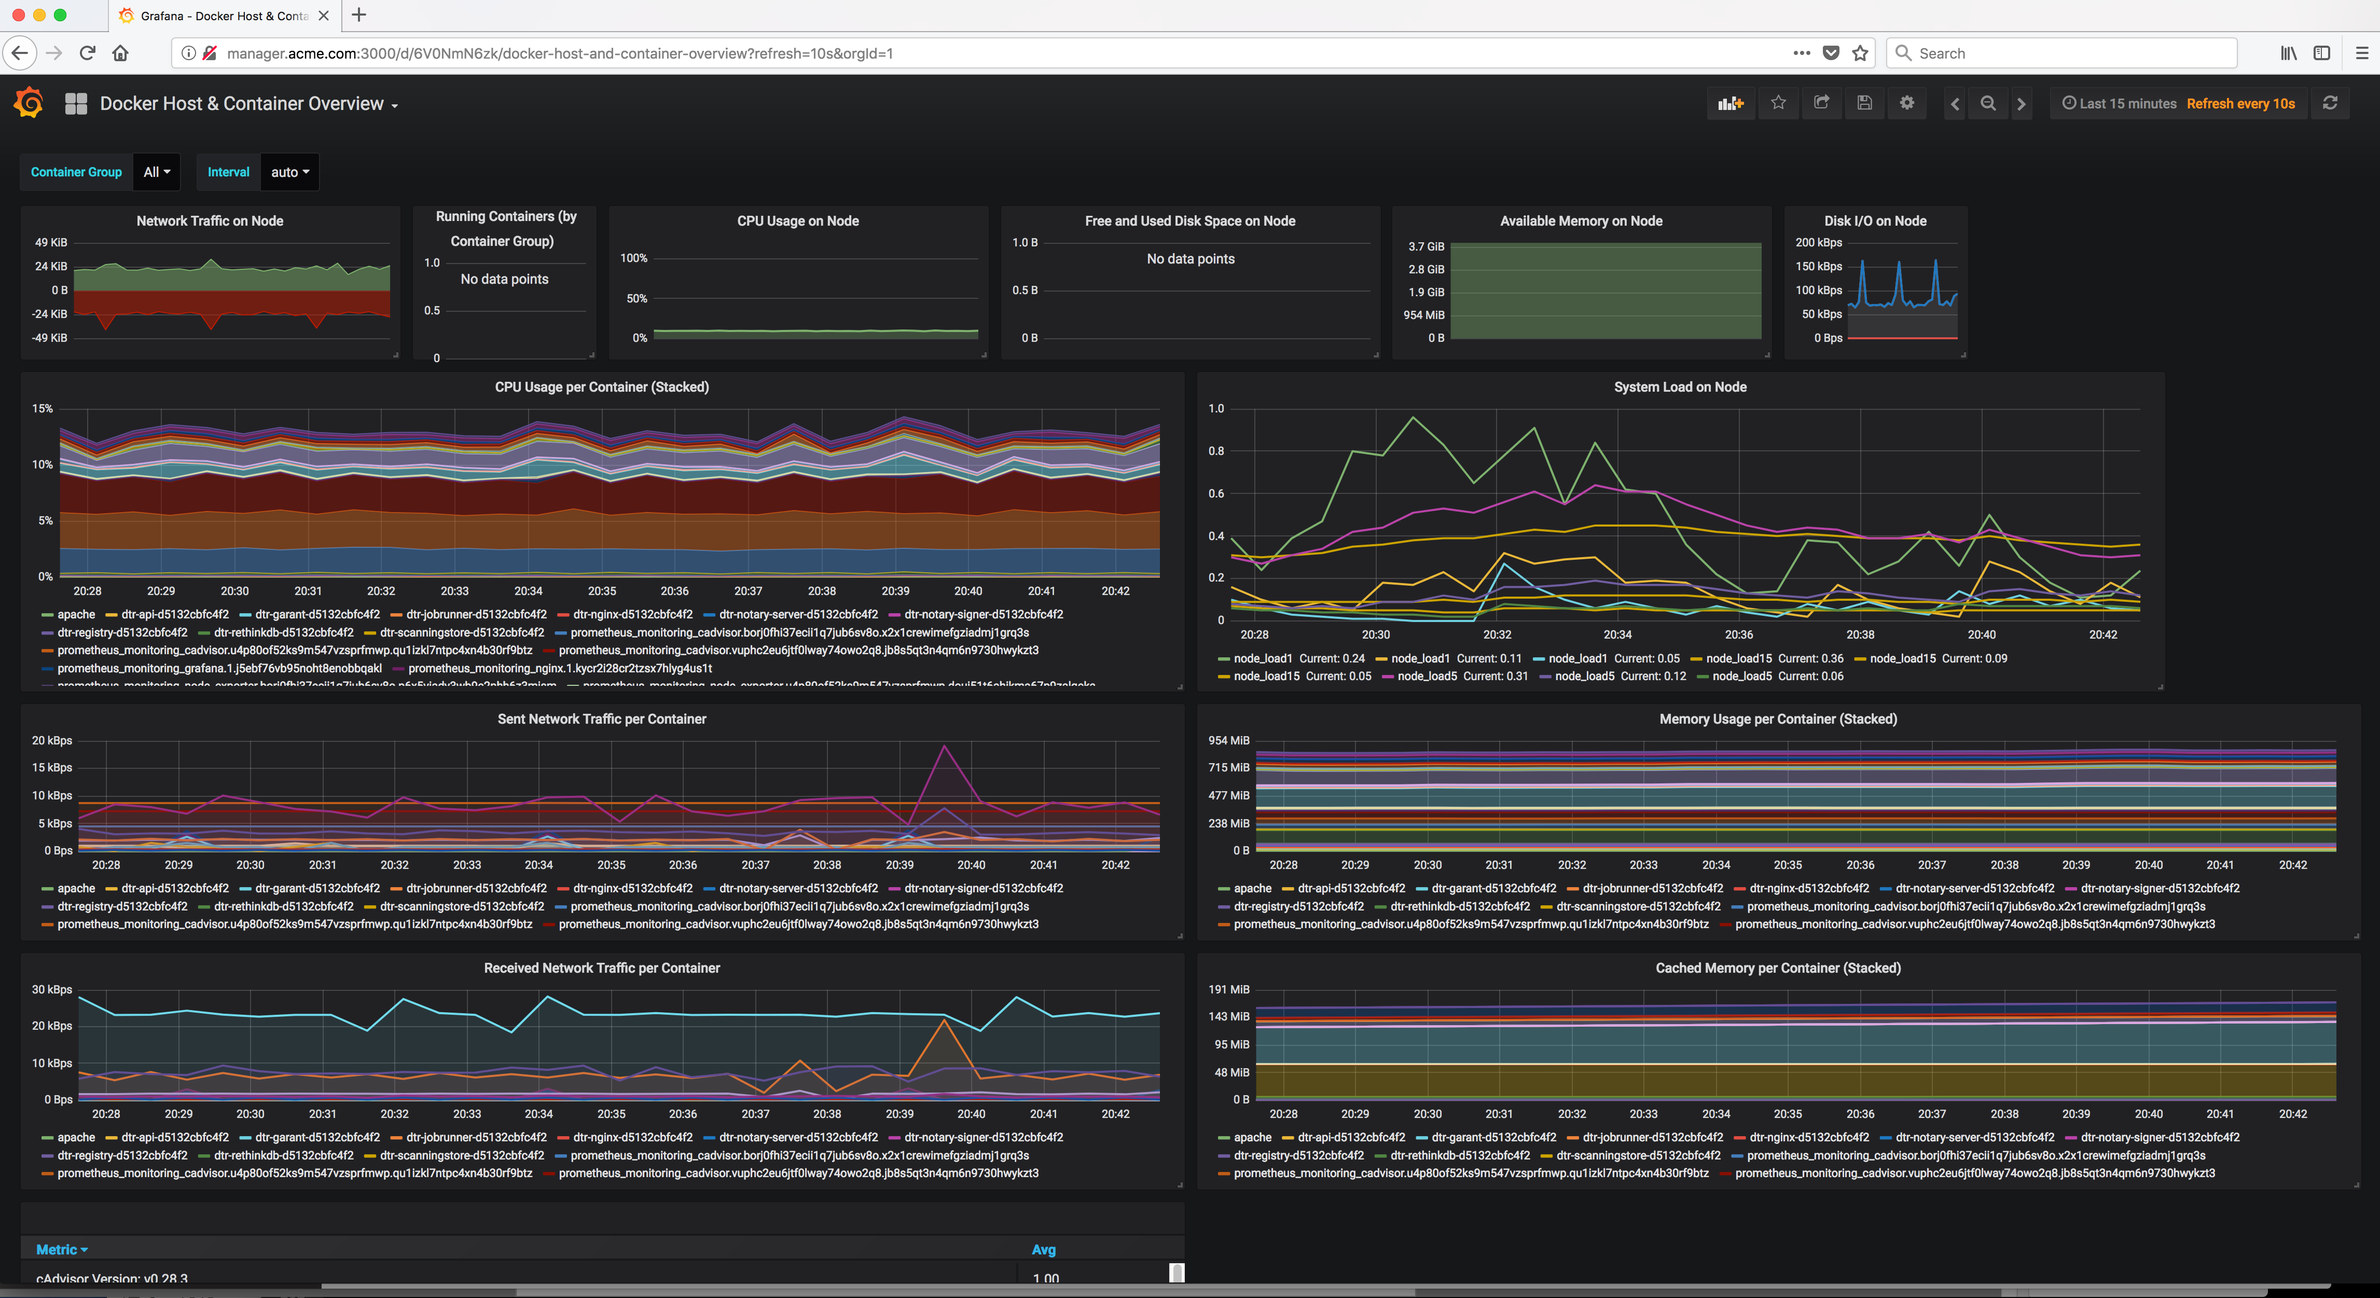
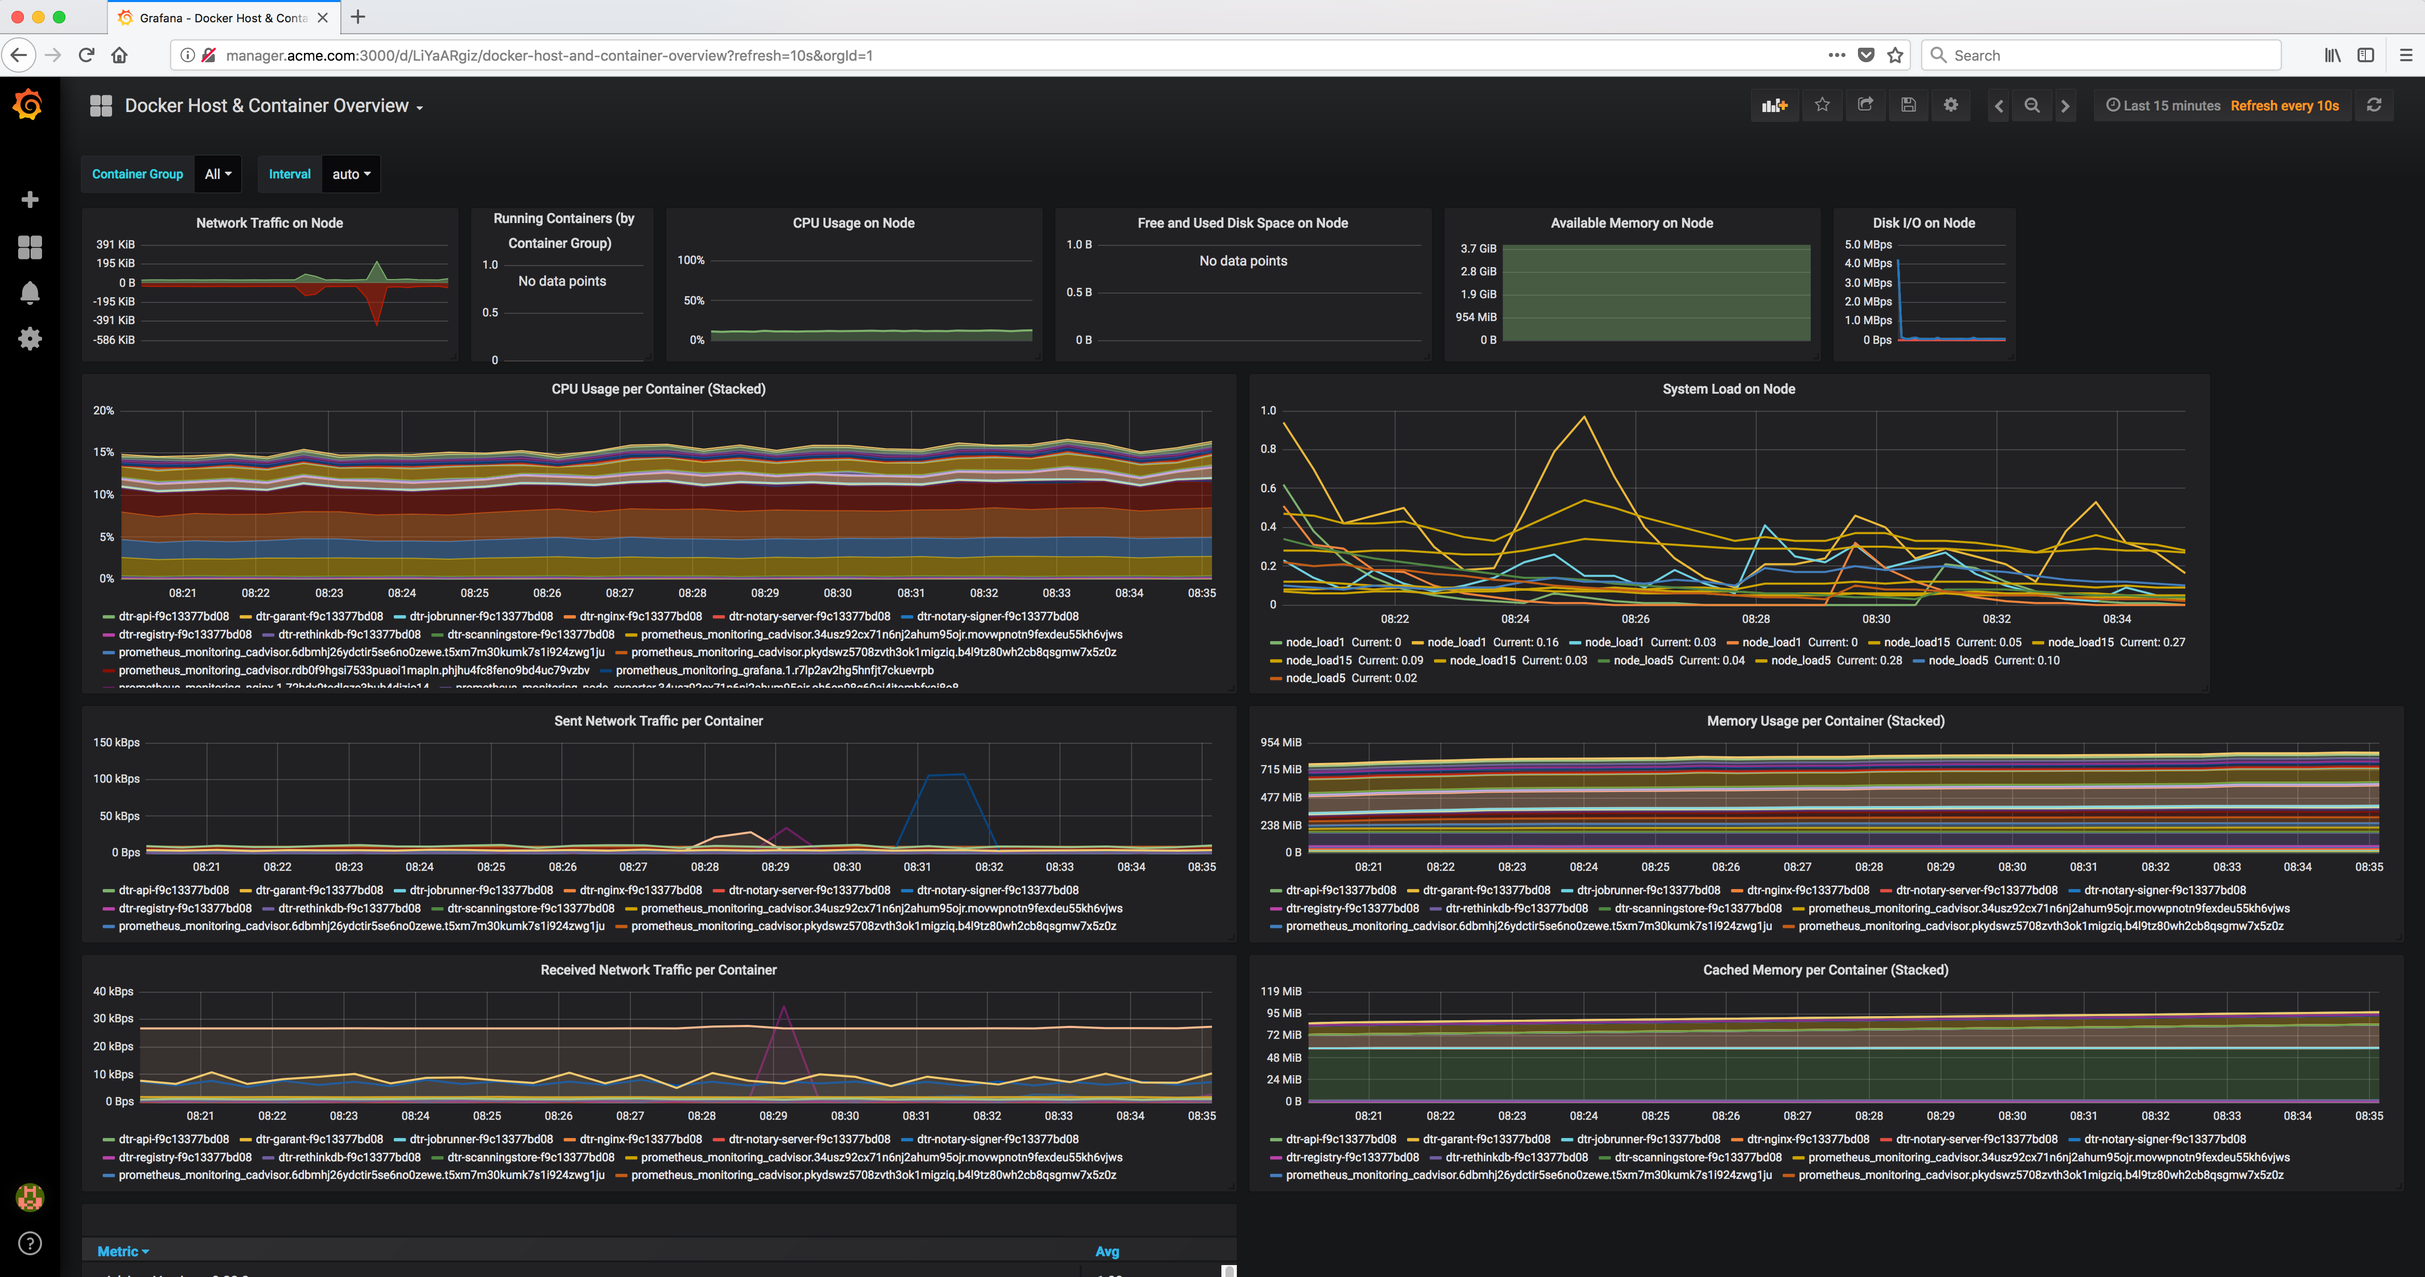
Documentation Updates

diff --git a/docker_ee_monitoring_grafana_prometheus/verify_the_stack_deployment.rst b/docker_ee_monitoring_grafana_prometheus/verify_the_stack_deployment.rst
@@ -16,11 +16,11 @@ Wait about a minute for the Grafana/Prometheus Stack to be created.
     ..  code-block:: text
 
         ID                  NAME                                  MODE                REPLICAS            IMAGE                                PORTS
-        8lkr1k10n3k1        prometheus_monitoring_prometheus      replicated          1/1                 prom/prometheus:latest
-        f0w2opzilook        prometheus_monitoring_grafana         replicated          1/1                 grafana/grafana:latest               *:3000->3000/tcp
-        nljzxf3lyk4p        prometheus_monitoring_cadvisor        global              3/3                 google/cadvisor:latest               *:8080->8080/tcp
-        nn9ed9ns63cg        prometheus_monitoring_nginx           replicated          1/1                 gforghetti/monitoring_nginx:latest   *:19090->19090/tcp
-        rcd4pspbo2x1        prometheus_monitoring_node_exporter   global              3/3                 prom/node-exporter:latest            *:9100->9100/tcp
+        hie1o6s89mk7        prometheus_monitoring_cadvisor        global              4/4                 google/cadvisor:latest               *:8080->8080/tcp
+        mwd068x8winp        prometheus_monitoring_nginx           replicated          1/1                 gforghetti/monitoring_nginx:latest   *:19090->19090/tcp
+        q4el1tam91gz        prometheus_monitoring_prometheus      replicated          1/1                 prom/prometheus:latest
+        scov4jrjdfu2        prometheus_monitoring_node_exporter   global              4/4                 prom/node-exporter:latest            *:9100->9100/tcp
+        vmmhcn2uelz5        prometheus_monitoring_grafana         replicated          1/1                 grafana/grafana:latest               *:3000->3000/tcp
 
 2. Run the following **docker service ps** command on the swarm manager to display where the services are running and their statuses.
 
@@ -32,16 +32,18 @@ Wait about a minute for the Grafana/Prometheus Stack to be created.
 
     ..  code-block:: text
 
-        ID                  NAME                                                            IMAGE                                NODE                DESIRED STATE       CURRENT STATE                ERROR               PORTS
-        p6x5viady3wb        prometheus_monitoring_node_exporter.borj0fhi37ecii1q7jub6sv8o   prom/node-exporter:latest            worker2             Running             Running 58 seconds ago
-        douj51t6ahik        prometheus_monitoring_node_exporter.u4p80of52ks9m547vzsprfmwp   prom/node-exporter:latest            worker1             Running             Running about a minute ago
-        qbk26pmngqbb        prometheus_monitoring_node_exporter.vuphc2eu6jtf0lway74owo2q8   prom/node-exporter:latest            manager             Running             Running 54 seconds ago
-        x2x1crewimef        prometheus_monitoring_cadvisor.borj0fhi37ecii1q7jub6sv8o        google/cadvisor:latest               worker2             Running             Running about a minute ago
-        qu1izkl7ntpc        prometheus_monitoring_cadvisor.u4p80of52ks9m547vzsprfmwp        google/cadvisor:latest               worker1             Running             Running about a minute ago
-        jb8s5qt3n4qm        prometheus_monitoring_cadvisor.vuphc2eu6jtf0lway74owo2q8        google/cadvisor:latest               manager             Running             Running 58 seconds ago
-        hdl7blhjdasq        prometheus_monitoring_prometheus.1                              prom/prometheus:latest               manager             Running             Running 55 seconds ago
-        j5ebf76vb95n        prometheus_monitoring_grafana.1                                 grafana/grafana:latest               worker2             Running             Running 50 seconds ago
-        kycr2i28cr2t        prometheus_monitoring_nginx.1                                   gforghetti/monitoring_nginx:latest   manager             Running             Running 52 seconds ago
+        ID                  NAME                                                            IMAGE                                NODE                DESIRED STATE       CURRENT STATE           ERROR               PORTS
+        b4l9tz80wh2c        prometheus_monitoring_cadvisor.pkydswz5708zvth3ok1migziq        google/cadvisor:latest               worker1             Running             Running 1 minutes ago
+        phjhu4fc8fen        prometheus_monitoring_cadvisor.rdb0f9hgsi7533puaoi1mapln        google/cadvisor:latest               manager             Running             Running 1 minutes ago
+        t5xm7m30kumk        prometheus_monitoring_cadvisor.6dbmhj26ydctir5se6no0zewe        google/cadvisor:latest               worker3.acme.com    Running             Running 1 minutes ago
+        movwpnotn9fe        prometheus_monitoring_cadvisor.34usz92cx71n6nj2ahum95ojr        google/cadvisor:latest               worker2.acme.com    Running             Running 1 minutes ago
+        q51uyr1rqoqk        prometheus_monitoring_node_exporter.6dbmhj26ydctir5se6no0zewe   prom/node-exporter:latest            worker3.acme.com    Running             Running 1 minutes ago
+        oh6en98g60aj        prometheus_monitoring_node_exporter.34usz92cx71n6nj2ahum95ojr   prom/node-exporter:latest            worker2.acme.com    Running             Running 1 minutes ago
+        uf990f56n7is        prometheus_monitoring_node_exporter.pkydswz5708zvth3ok1migziq   prom/node-exporter:latest            worker1             Running             Running 1 minutes ago
+        0id5i3v0xj70        prometheus_monitoring_node_exporter.rdb0f9hgsi7533puaoi1mapln   prom/node-exporter:latest            manager             Running             Running 1 minutes ago
+        sixswn6paq8n        prometheus_monitoring_prometheus.1                              prom/prometheus:latest               worker2.acme.com    Running             Running 1 minutes ago
+        r7lp2av2hg5h        prometheus_monitoring_grafana.1                                 grafana/grafana:latest               worker3.acme.com    Running             Running 1 minutes ago
+        72hdx9tcdlgz        prometheus_monitoring_nginx.1                                   gforghetti/monitoring_nginx:latest   manager             Running             Running 1 minutes ago
 
 3. Run the following **docker service logs** commands on the swarm manager to display the logs for the services and check them for errors.
 

diff --git a/docker_ee_logging_splunk/add_labels_to_nodes.rst b/docker_ee_logging_splunk/add_labels_to_nodes.rst
@@ -30,29 +30,30 @@ Follow the instructions below to add the labels to the nodes carefully.  Make su
     .. code-block:: text
 
         ID                            HOSTNAME            STATUS              AVAILABILITY        MANAGER STATUS
-        akh3ecyvt3y168gfjb2raxo7z     worker2.acme.com    Ready               Active
-        gwkn7ydqvlzscvw1swfrxvhcs     worker1             Ready               Active
-        kk1ncklruchfo5jpmoa7v4xhp *   manager             Ready               Active              Leader
+        34usz92cx71n6nj2ahum95ojr     worker2.acme.com    Ready               Active
+        6dbmhj26ydctir5se6no0zewe     worker3.acme.com    Ready               Active
+        pkydswz5708zvth3ok1migziq     worker1             Ready               Active
+        rdb0f9hgsi7533puaoi1mapln *   manager             Ready               Active              Leader
    
 2. Pick one node in the swarm and add a label to it so it will be chosen to run the **Splunk Enterprise server**.
 
-    In this Solution Brief the docker swarm the manager node will be designated as the node where the single **Splunk Enterprise server** service will run. 
-    In this example the **ID** of that node is ``kk1ncklruchfo5jpmoa7v4xhp``.
+    In this Solution Brief the docker swarm the worker1 node will be designated as the node where the single **Splunk Enterprise server** service will run. 
+    In this example the **ID** of that node is ``pkydswz5708zvth3ok1migziq``.
 
-    Run the following **docker node update** command to add the label ``splunk-node-type=enterprise-server`` to the node with the **ID** ``kk1ncklruchfo5jpmoa7v4xhp``.
+    Run the following **docker node update** command to add the label ``splunk-node-type=enterprise-server`` to the node with the **ID** ``pkydswz5708zvth3ok1migziq``.
 
     ..  code-block:: bash
 
-        docker node update --label-add 'splunk-node-type=enterprise-server' kk1ncklruchfo5jpmoa7v4xhp
+        docker node update --label-add 'splunk-node-type=enterprise-server' pkydswz5708zvth3ok1migziq
 
 3. Add a label to every other node in the swarm so they will be chosen to run a **Splunk Forwarder server** service.
 
     Run the command below to display the **IDs** of all nodes in the swarm, 
-    filter out the node with **ID** ``kk1ncklruchfo5jpmoa7v4xhp``, and then add the label ``splunk-node-type=forwarder-server`` to the remaining nodes.
+    filter out the node with **ID** ``pkydswz5708zvth3ok1migziq``, and then add the label ``splunk-node-type=forwarder-server`` to the remaining nodes.
 
     ..  code-block:: bash
 
-        for node in $(docker node ls -q | grep -v 'kk1ncklruchfo5jpmoa7v4xhp'); \
+        for node in $(docker node ls -q | grep -v 'pkydswz5708zvth3ok1migziq'); \
         do \
             docker node update $node --label-add 'splunk-node-type=forwarder-server'; \
         done
@@ -72,7 +73,8 @@ Follow the instructions below to add the labels to the nodes carefully.  Make su
 
         "enterprise-server"
         "forwarder-server"
-        "forwarder-server"      
+        "forwarder-server"
+        "forwarder-server"       
 
 ..  toctree::
     :hidden:

diff --git a/docker_ee_logging_splunk/verify_the_stack_deployment.rst b/docker_ee_logging_splunk/verify_the_stack_deployment.rst
@@ -16,8 +16,8 @@ Wait about a minute for the Splunk stack to be created.
     .. code-block:: text
 
         ID                  NAME                       MODE                REPLICAS            IMAGE                                     PORTS
-        s9slvy69c2pq        splunk_splunk-forwarder    global              2/2                 splunk/universalforwarder:7.0.0-monitor   *:1514->1514/tcp
-        tta92fql42kf        splunk_splunk-enterprise   replicated          1/1                 splunk/splunk:7.0.0-monitor               *:8000->8000/tcp,*:8088->8088/tcp
+        3w0isjfwib18        splunk_splunk-forwarder    global              3/3                 splunk/universalforwarder:7.0.0-monitor   *:1514->1514/tcp
+        hm2i38qtvrvy        splunk_splunk-enterprise   replicated          1/1                 splunk/splunk:7.0.0-monitor               *:8000->8000/tcp,*:8088->8088/tcp
 
 2. Run the following **docker service ps** command on the swarm manager to display where the services are running and their statuses.
 
@@ -29,10 +29,11 @@ Wait about a minute for the Splunk stack to be created.
 
     .. code-block:: text
 
-        ID                  NAME                                                    IMAGE                                     NODE                DESIRED STATE       CURRENT STATE           ERROR                        PORTS
-        698tsinasc9z        splunk_splunk-forwarder.akh3ecyvt3y168gfjb2raxo7z       splunk/universalforwarder:7.0.0-monitor   worker2.acme.com    Running             Running 1 minutes ago
-        b60julm9ujhy        splunk_splunk-forwarder.gwkn7ydqvlzscvw1swfrxvhcs       splunk/universalforwarder:7.0.0-monitor   worker1             Running             Running 1 minutes ago
-        zgl5hcsscxmn        splunk_splunk-enterprise.1                              splunk/splunk:7.0.0-monitor               manager             Running             Running 1 minutes ago
+        ID                  NAME                                                    IMAGE                                     NODE                DESIRED STATE       CURRENT STATE                ERROR                        PORTS
+        eqfwf5j1xruv        splunk_splunk-forwarder.6dbmhj26ydctir5se6no0zewe       splunk/universalforwarder:7.0.0-monitor   worker3.acme.com    Running             Running about a minute ago
+        os3gfyk1iu0h        splunk_splunk-forwarder.34usz92cx71n6nj2ahum95ojr       splunk/universalforwarder:7.0.0-monitor   worker2.acme.com    Running             Running about a minute ago
+        prenu2lu25rs        splunk_splunk-forwarder.rdb0f9hgsi7533puaoi1mapln       splunk/universalforwarder:7.0.0-monitor   manager             Running             Running about a minute ago
+        p57pol9bb6fi        splunk_splunk-enterprise.1                              splunk/splunk:7.0.0-monitor               worker1             Running             Running about a minute ago
 
 3. Run the following **docker service logs** commands on the swarm manager to display the logs for the services and check them for errors.
 

diff --git a/docker_ee_monitoring_grafana_prometheus/create_the_stack.rst b/docker_ee_monitoring_grafana_prometheus/create_the_stack.rst
@@ -15,15 +15,15 @@ Run the following **docker stack deploy** command on the swarm manager to create
 
 Example output:
 
-    .. code-block:: text
+    ..  code-block:: text
 
-        Creating network prometheus_monitoring-frontend
         Creating network prometheus_monitoring-backend
-        Creating service prometheus_monitoring_grafana
-        Creating service prometheus_monitoring_prometheus
+        Creating network prometheus_monitoring-frontend
         Creating service prometheus_monitoring_node_exporter
         Creating service prometheus_monitoring_cadvisor
         Creating service prometheus_monitoring_nginx
+        Creating service prometheus_monitoring_grafana
+        Creating service prometheus_monitoring_prometheus
    
 ..  toctree::
     :hidden:

diff --git a/docker_ee_logging_elk/prerequisites.rst b/docker_ee_logging_elk/prerequisites.rst
@@ -6,7 +6,7 @@ Prerequisites
 Docker swarm
 ------------
 
-A Docker swarm must be deployed and running.
+To run this Solution Brief a Docker swarm must be deployed and running.
 
 * For a test environment a minimum of 3 nodes is required.
 * For a production environment additional nodes should be deployed. 

diff --git a/docker_ee_logging_splunk/prerequisites.rst b/docker_ee_logging_splunk/prerequisites.rst
@@ -6,7 +6,7 @@ Prerequisites
 Docker swarm
 ------------
 
-A Docker swarm must be deployed and running.
+To run this Solution Brief a Docker swarm must be deployed and running.
 
 * For a test environment a minimum of 3 nodes is required.
 * For a production environment additional nodes should be deployed. 

diff --git a/docker_ee_monitoring_grafana_prometheus/prerequisites.rst b/docker_ee_monitoring_grafana_prometheus/prerequisites.rst
@@ -6,7 +6,7 @@ Prerequisites
 Docker swarm
 ------------
 
-A Docker swarm must be deployed and running.
+To run this Solution Brief a Docker swarm must be deployed and running.
 
 * For a test environment a minimum of 3 nodes is required.
 * For a production environment additional nodes should be deployed. 

diff --git a/docker_ee_monitoring_grafana_prometheus/swarm_configuration.rst b/docker_ee_monitoring_grafana_prometheus/swarm_configuration.rst
@@ -3,7 +3,7 @@
 Docker EE Swarm Configuration
 =============================
 
-A Grafana/Prometheus stack will be deployed to the following 3 node Docker Swarm.
+A Grafana/Prometheus stack will be deployed to the following 4 node Docker Swarm.
 
 ..  image:: images/docker_swarm_configuration.png
 

diff --git a/docker_ee_logging_splunk/swarm_configuration.rst b/docker_ee_logging_splunk/swarm_configuration.rst
@@ -3,7 +3,7 @@
 Docker EE Swarm Configuration
 =============================
 
-A Splunk stack will be deployed to the following 3 node Docker Swarm.
+A Splunk stack will be deployed to the following 4 node Docker Swarm.
 
 ..  image:: images/docker_swarm_configuration.png
 
